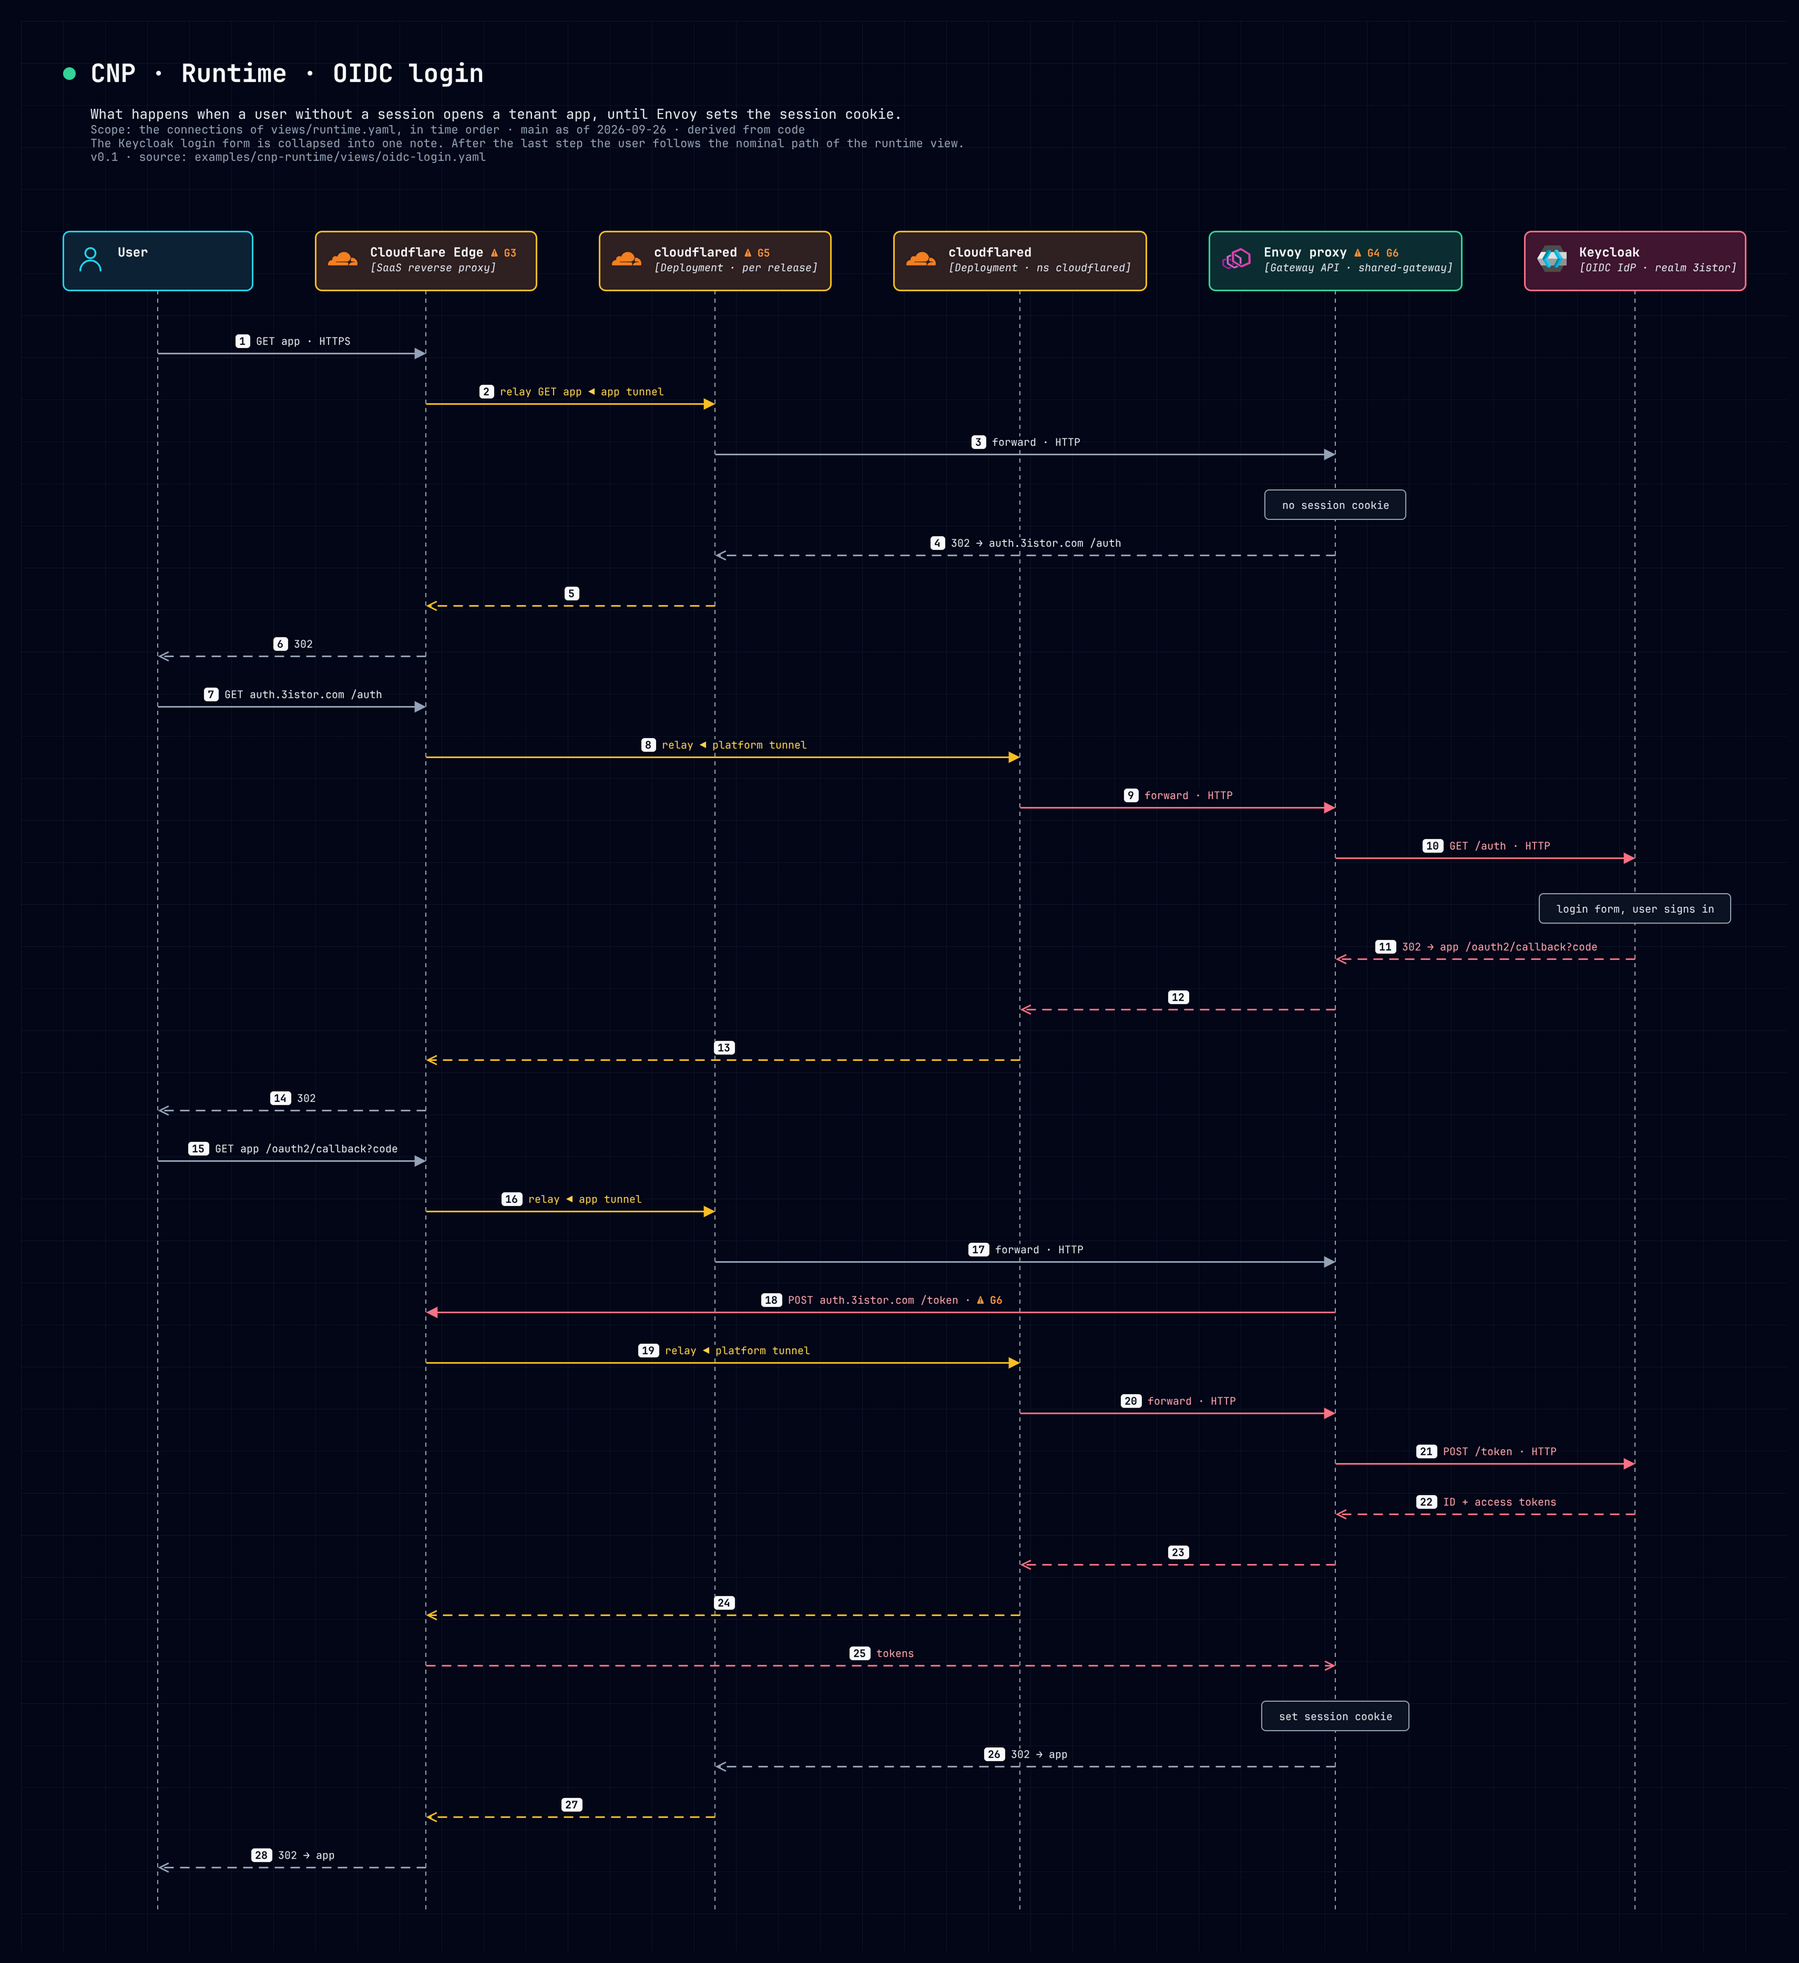
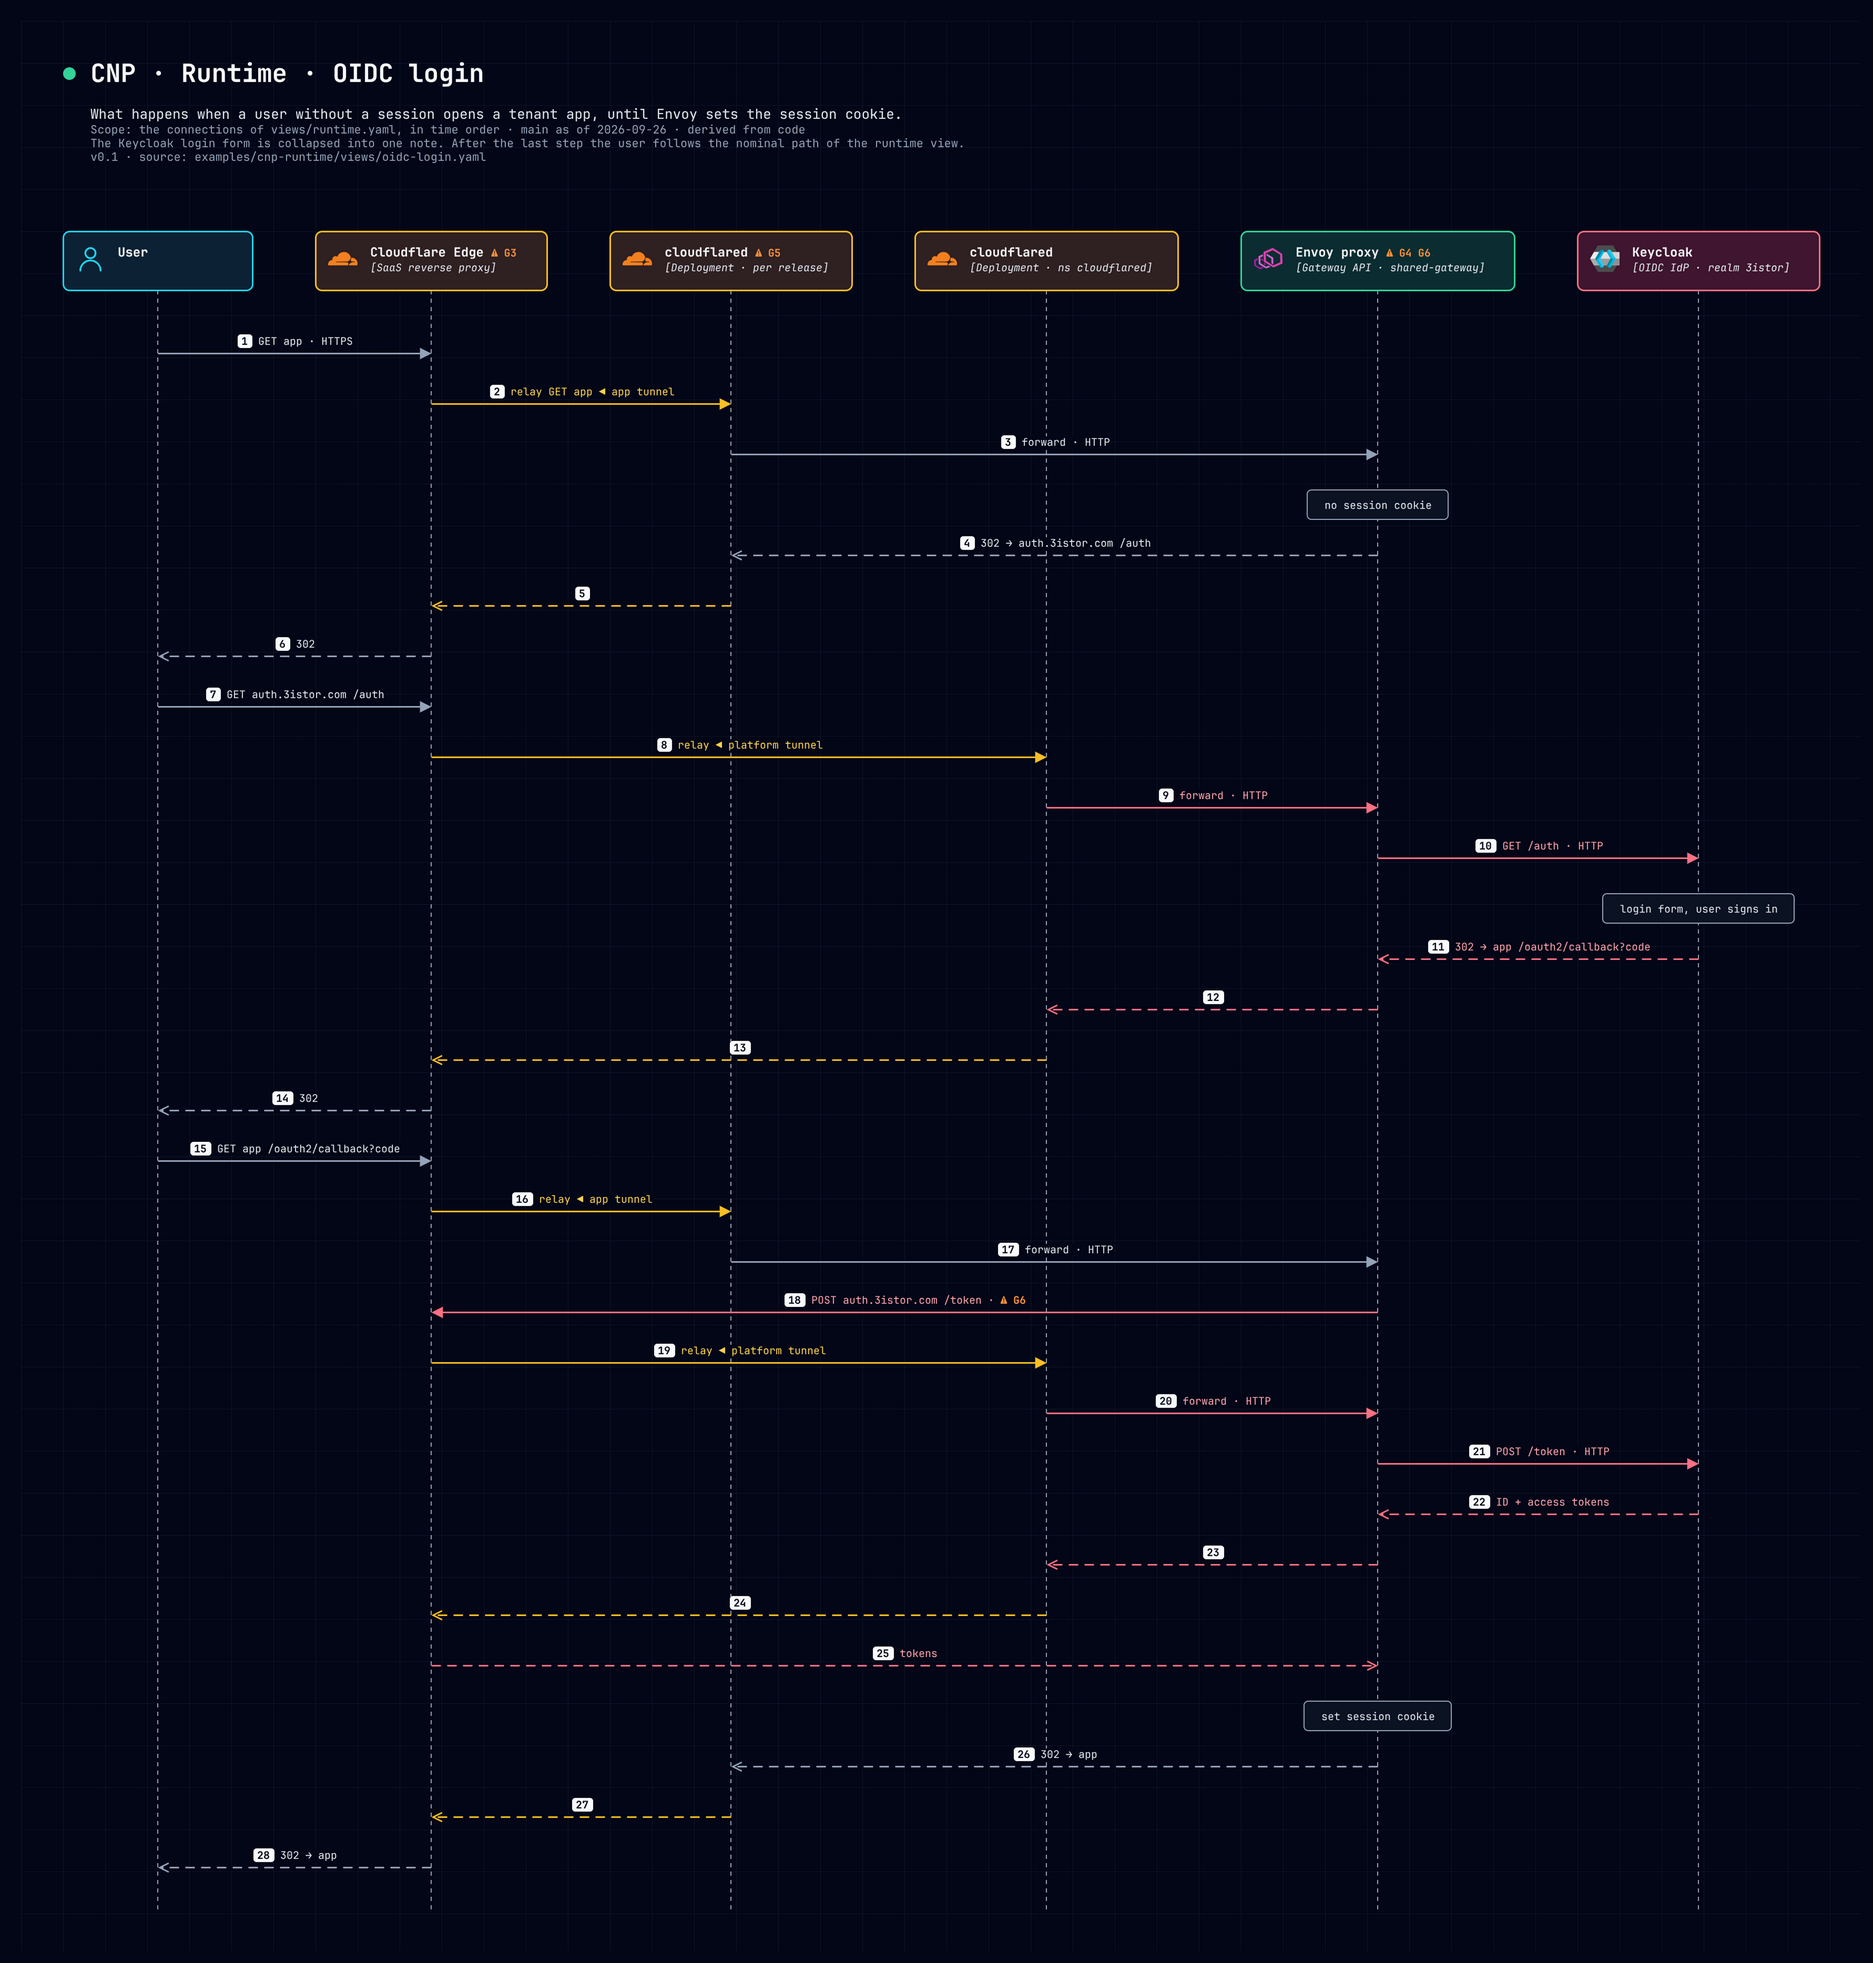
docs(examples): before and after images for every drawing spec 008 changed

diff --git a/docs/PROGRESS.md b/docs/PROGRESS.md
@@ -36,6 +36,7 @@ decisions go in ADRs, acceptance in `features.json`.
 - T06: `canvas_bounds.go` reports a zone, node, card or note past any canvas edge. The #90 landscape does not overrun the canvas at this commit (fixture `landscape-90` reaches the width cap and stays inside), so the resolver is unchanged; see the report. LNT-07 flip waits for the evaluator.
 - T07: node text is measured at `house.ExportCharWidthEm` (0.602) plus `house.FitsWithMargin`, in the lint, `resolve.boxWidth` and the landscape tile width. Fixture `examples/regression-72`. cnp-runtime, platform-overview and app-runtime-view boxes widened (nodes shifted to keep their edges); sequence boxes and landscape tiles grow by themselves. LNT-03 flip waits for the evaluator.
 - T08: a zone sub that does not fit the title line inside the zone wraps under the label in a column of at most 240 px; `house.ZoneTitleBox` covers exactly those lines and the renderer draws them. Fixture `examples/regression-87` (rejected by the lint on main, so its before image comes from main's renderer with the lint off). No other example changed. LNT-06, B-20 flips wait for the evaluator.
+- T09: every example whose drawing changed commits its `.drawio` and re-exported PNGs, with a before image from main's renderer in `specs/008-lint-robustness/visual/`. The fixes themselves landed with the rule that needed each (T02 legends, T05 oidc-login, T07 boxes). LNT-08 flip waits for the evaluator.
 
 ### 2026-11-04 · Engineering process (spec 007, ADR-0024)
 

diff --git a/specs/008-lint-robustness/tasks.md b/specs/008-lint-robustness/tasks.md
@@ -33,7 +33,7 @@ Clarifications 1 to 5 of the spec are answered (2026-11-04).
 
 ## Wave 4
 
-- [ ] **T09** Fix every example, regression fixture and docs diagram the new rules reject;
+- [x] **T09** Fix every example, regression fixture and docs diagram the new rules reject;
   before/after PNGs in the PR (FR-010). Flip **LNT-08**.
 
 ## Convergence
